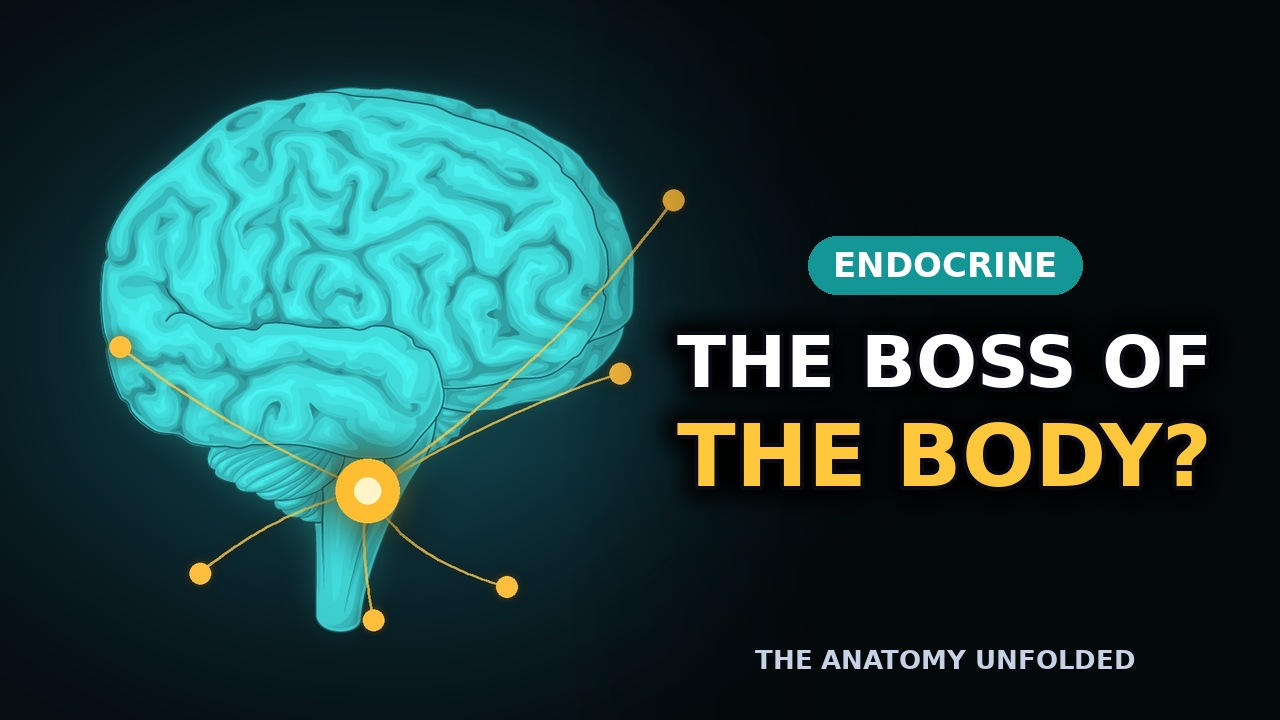
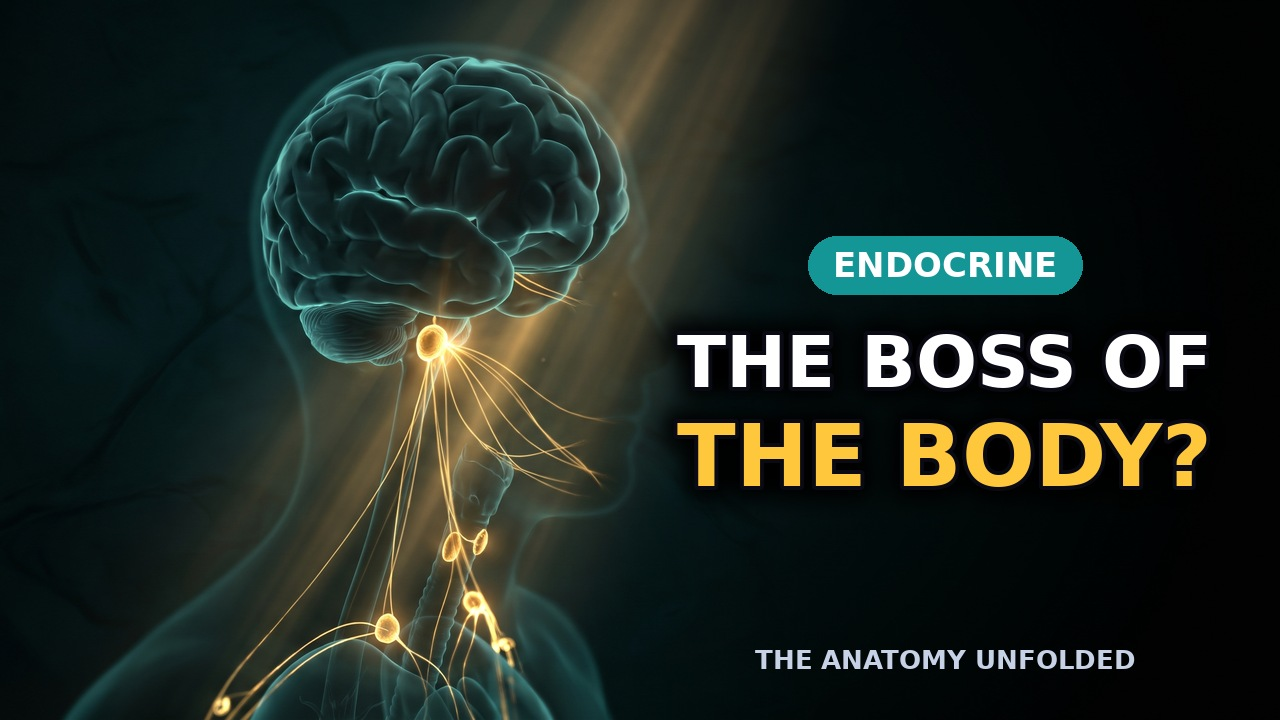
Add Kidney episode (Mon 23 Nov) with thumbnail; final Endocrine thumbnail
Claude-Session: https://claude.ai/code/session_014KHa7RhKGUzG1pEih675R6

diff --git a/youtube_agent/explainer/seo_tags.py b/youtube_agent/explainer/seo_tags.py
@@ -82,13 +82,16 @@ EP = {
  "digestive": (["Digestive system explained", "How digestion works", "Stomach and small intestine"],
     ["digestive system", "how does digestion work", "digestive system explained", "stomach acid", "why stomach doesn't digest itself", "small intestine", "villi", "bile and pancreatic enzymes", "peristalsis", "large intestine", "gut bacteria", "how long does digestion take", "anatomy and physiology"],
     ["#digestivesystem", "#digestion", "#stomach"]),
+ "kidney": (["How kidneys work", "Nephron and urine formation", "Kidney anatomy"],
+    ["how do kidneys work", "kidney anatomy", "kidney function", "nephron", "glomerulus", "urine formation", "tubular reabsorption", "renal artery and vein", "erythropoietin", "renin", "urinary system", "ureter bladder urethra", "anatomy and physiology"],
+    ["#kidneys", "#urinarysystem", "#nephron"]),
 }
 
 
 def tags_for(eid, short=False):
     kw, tags, _ = EP[eid]
     out, seen = [], set()
-    base = [b for b in BASE if not (eid in ("brain", "neuron", "spine", "autonomic", "endocrine", "digestive") and b == "cardiovascular system")]
+    base = [b for b in BASE if not (eid in ("brain", "neuron", "spine", "autonomic", "endocrine", "digestive", "kidney") and b == "cardiovascular system")]
     for t in tags + (["shorts", "anatomy shorts"] if short else []) + base:
         if t.lower() not in seen and sum(len(x) + 3 for x in out) + len(t) + 3 <= 480:
             out.append(t); seen.add(t.lower())
